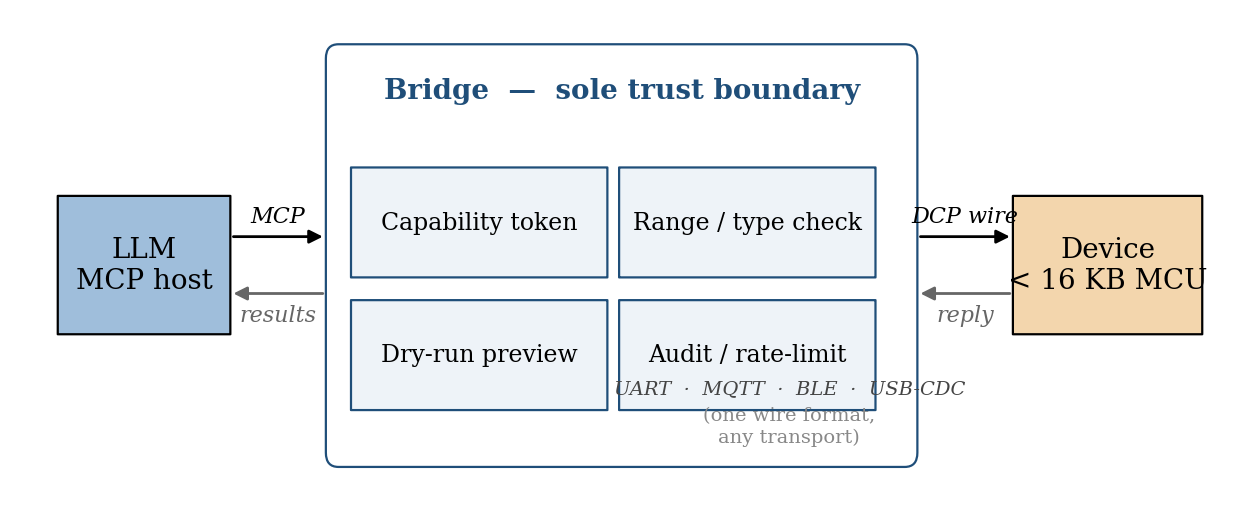
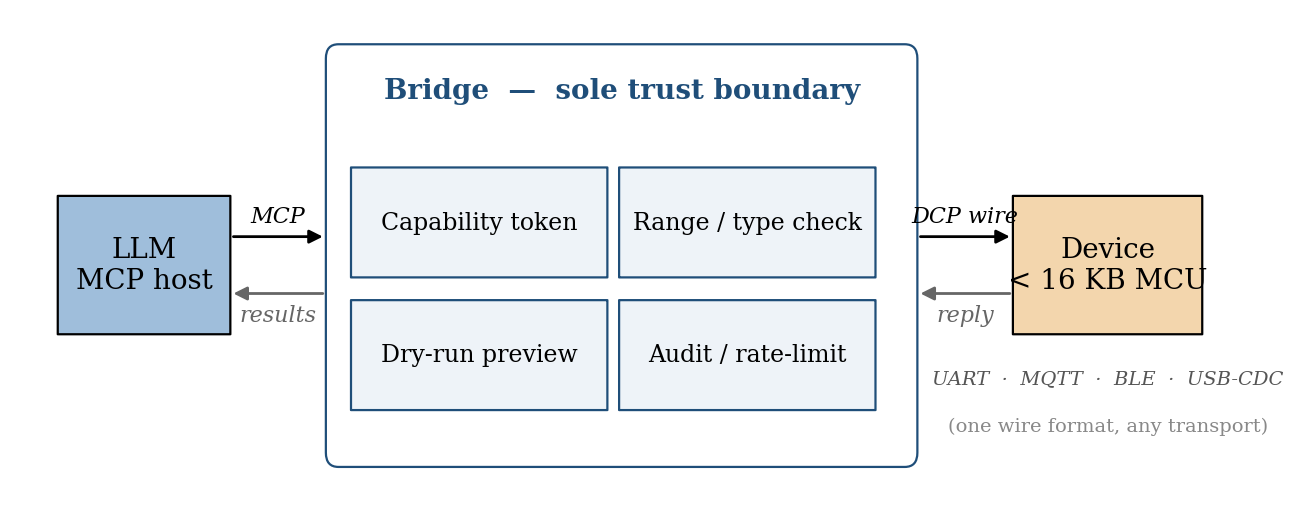
fig(arch): move stale transport bullets out from under Bridge cells

Changed region(s): [[0.031, 0.0938, 0.9905, 0.9062], [0.8667, 0.7188, 0.9905, 0.75]]

diff --git a/docs/paper/figures/make_figures.py b/docs/paper/figures/make_figures.py
@@ -129,16 +129,16 @@ def fig_architecture():
         ax.text((x1 + x2) / 2, max(y1, y2) + dy_label, label,
                 ha="center", va="bottom", fontsize=8, color=color, style="italic")
 
-    arrow(22, 28,  34, 28, "MCP",      dy_label=1)
-    arrow(34, 22,  22, 22, "results",  dy_label=-3.5, color="#666666")
+    arrow(22, 28,  34, 28, "MCP",       dy_label=1)
+    arrow(34, 22,  22, 22, "results",   dy_label=-3.5, color="#666666")
     arrow(104, 28, 116, 28, "DCP wire", dy_label=1)
     arrow(116, 22, 104, 22, "reply",    dy_label=-3.5, color="#666666")
 
-    # Transport bullets under device
-    transports = "UART  ·  MQTT  ·  BLE  ·  USB-CDC"
-    ax.text(89, 12, transports, ha="center", va="center", fontsize=7,
-            color="#444444", style="italic")
-    ax.text(89, 8, "(one wire format,\nany transport)",
+    # Transport bullets centered under the Device box (x ≈ 127, w 22).
+    ax.text(127, 13, "UART  ·  MQTT  ·  BLE  ·  USB-CDC",
+            ha="center", va="center", fontsize=7,
+            color="#555555", style="italic")
+    ax.text(127, 8,  "(one wire format, any transport)",
             ha="center", va="center", fontsize=7, color="#888888")
 
     save(fig, "arch")